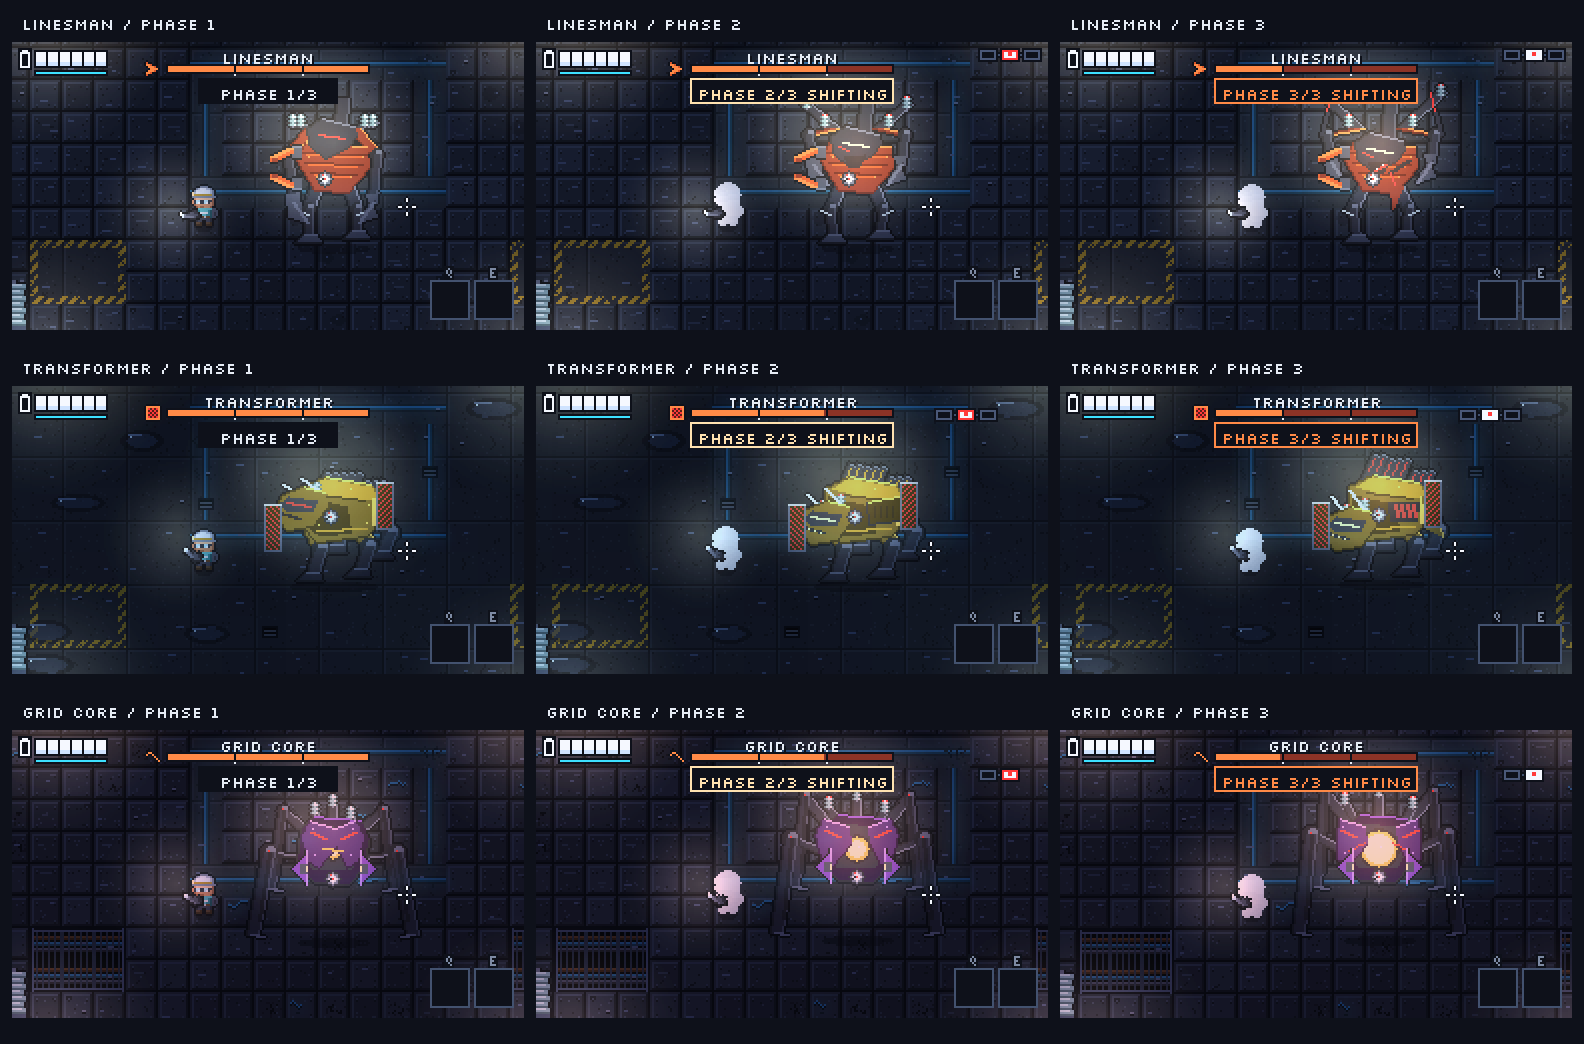
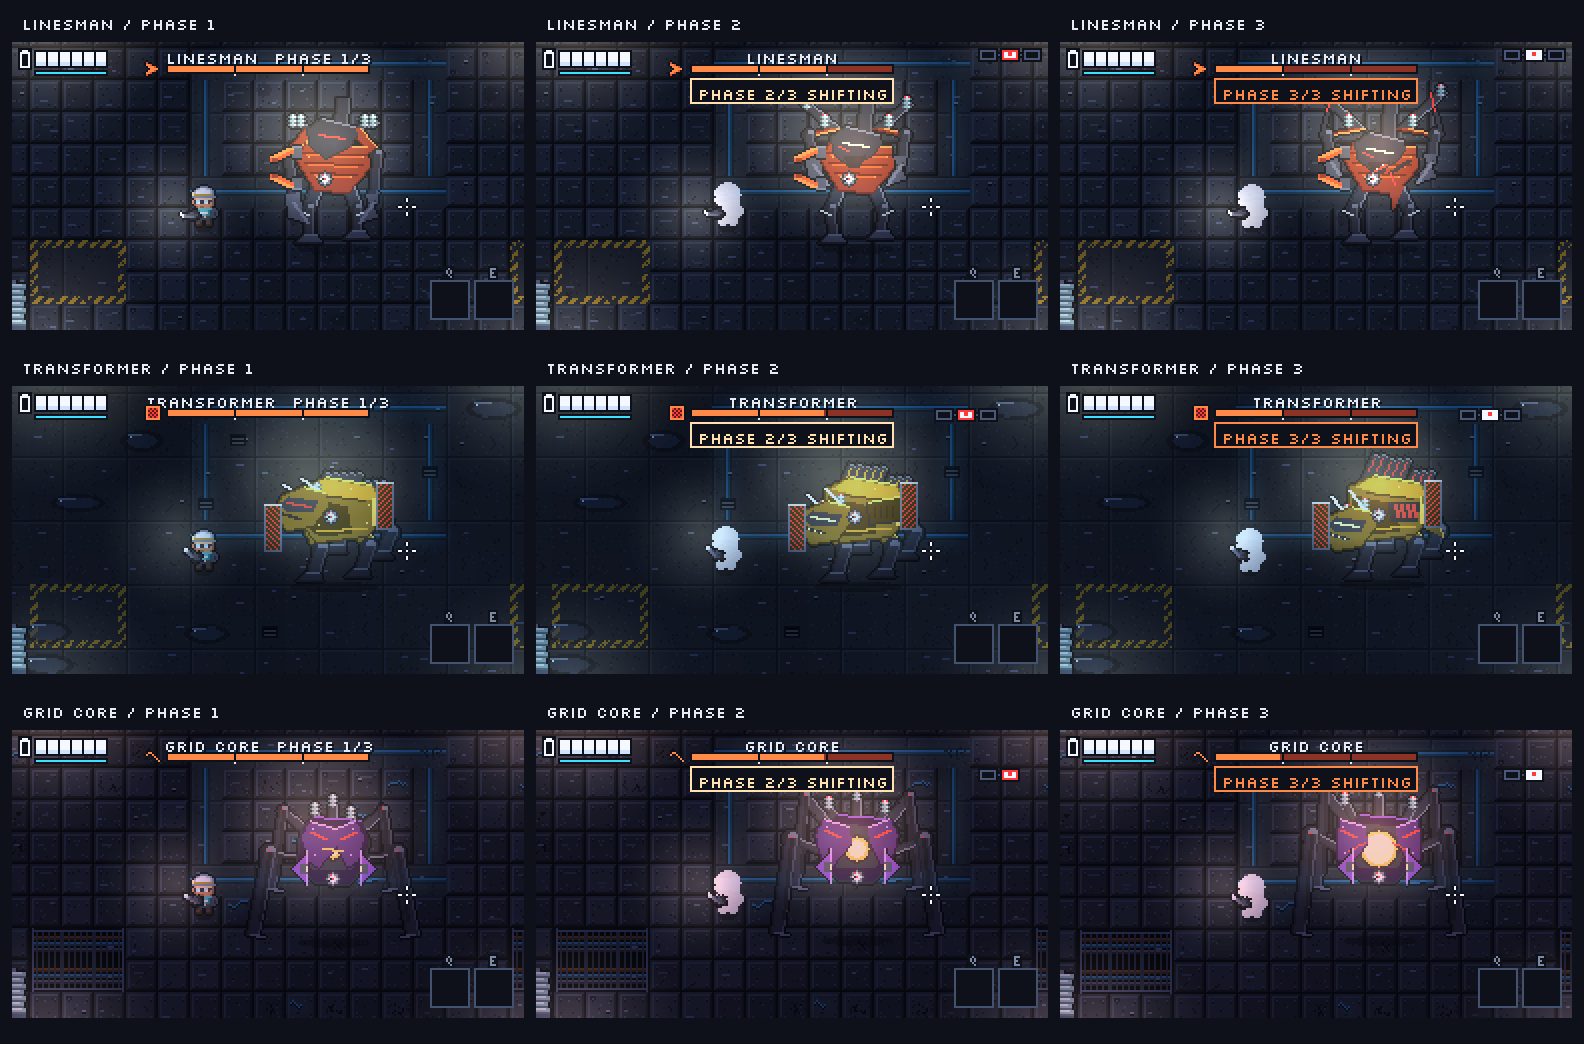
Keep the steady phase label clear of moving boss armor

Changed region(s): [[0.1237, 0.0307, 0.2165, 0.1226], [0.0928, 0.3678, 0.2475, 0.4291], [0.1237, 0.705, 0.2165, 0.7663]]

diff --git a/src/overload/art/pixel/hud.py b/src/overload/art/pixel/hud.py
@@ -159,7 +159,10 @@ def draw(target: pygame.Surface, hud: Hud) -> None:
     if hud.rival_health is not None:
         bar_w = 100
         bx = (w - bar_w) // 2
-        text(target, hud.rival_name, (w // 2, 2), "ui.text", "midtop")
+        title = hud.rival_name
+        if hud.rival_phases > 1 and not hud.rival_changing:
+            title += f"  PHASE {hud.rival_phase}/{hud.rival_phases}"
+        text(target, title, (w // 2, 2), "ui.text", "midtop")
         target.fill(rgb("px.outline"), (bx - 1, 11, bar_w + 2, 5))
         target.fill(rgb("px.hostile.1"), (bx, 12, bar_w, 3))
         fill = "fx.flash" if hud.rival_venting and (hud.tick // 4) % 2 else "px.hostile.3"
@@ -168,17 +171,13 @@ def draw(target: pygame.Surface, hud: Hud) -> None:
             nx = bx + round(bar_w * k / hud.rival_phases)
             target.fill(rgb("px.outline"), (nx, 11, 1, 5))
             target.fill(rgb("ui.text"), (nx, 16, 1, 1))
-        if hud.rival_phases > 1:
-            phase_color = ("ui.text", "px.lamp.light", "px.hostile.3")[hud.rival_phase - 1]
-            # The active phase stays visible after the shielded transition finishes.
-            panel = pygame.Rect(0, 18, 102 if hud.rival_changing else 70, 13)
+        if hud.rival_changing and hud.rival_phases > 1:
+            phase_color = "px.hostile.3" if hud.rival_phase == 3 else "px.lamp.light"
+            panel = pygame.Rect(0, 18, 102, 13)
             panel.centerx = w // 2
             target.fill(rgb("px.outline"), panel)
-            if hud.rival_changing:
-                pygame.draw.rect(target, rgb(phase_color), panel, 1)
-            label = f"PHASE {hud.rival_phase}/{hud.rival_phases}"
-            if hud.rival_changing:
-                label += " SHIFTING"
+            pygame.draw.rect(target, rgb(phase_color), panel, 1)
+            label = f"PHASE {hud.rival_phase}/{hud.rival_phases} SHIFTING"
             text(target, label, (w // 2, 20), phase_color, "midtop")
         if hud.rival_protocol:
             icon = effects.protocol_icon(hud.rival_protocol)

diff --git a/tests/test_pixel_art.py b/tests/test_pixel_art.py
@@ -920,7 +920,7 @@ def test_real_health_thresholds_reach_the_permanent_phase_hud(headless_pygame, m
 
     monkeypatch.setattr(hud, "text", track)
     view.draw(display, run, (128, 72))
-    assert "PHASE 1/3" in calls
+    assert any(label.endswith("PHASE 1/3") for label in calls)
 
     for phase in (2, 3):
         target_health = rival.max_health * (4 - phase) // 3
@@ -950,7 +950,7 @@ def test_real_health_thresholds_reach_the_permanent_phase_hud(headless_pygame, m
             view.after_tick(run)
         calls.clear()
         view.draw(display, run, (128, 72))
-        assert f"PHASE {phase}/3" in calls
+        assert any(label.endswith(f"PHASE {phase}/3") for label in calls)
 
 
 def test_the_entrance_card_and_ending_rows(headless_pygame, monkeypatch) -> None:

diff --git a/docs/HANDOFF.md b/docs/HANDOFF.md
@@ -17,9 +17,11 @@ Snapshot of November 18, 2026. For any agent or chat picking up the work. The st
 
 ## Boss rework integration
 
-GitHub merged #36 to `main`. It closed #37 through #42 by merging each into its feature base, so `main` still ran the older boss presentation. The follow-up branch `fix/boss-walk-and-phases` incorporates the exact merged tree from #42 and targets `main` directly.
+GitHub merged #36 to `main`. It closed #37 through #42 by merging each into its feature base, so `main` still ran the older boss presentation. The direct [integration PR #43](https://github.com/Adit-Prabhu/overload/pull/43) incorporates the exact merged tree from #42 and targets `main` directly.
 
 This build shows the current phase throughout each fight and highlights the shielded transition. The feet reach in the actual direction of travel, with longer planted steps and visibly higher lifts. Verify these in the campaign or the headless captures rather than the single-arena practice mode, which has no three-phase chassis. See [boss design and captures](BOSS_DESIGN.md).
+
+After review and CI, Adit can merge with `gh pr merge 43 --merge`, then update a local main checkout with `git pull --ff-only`.
 
 ## Next steps (spec section 9)
 1. Bulwark (from the Sentry) and Magnet (from the Sweeper) base powers: drops, charge cores, evolutions (REFLECT, CRUSH), effects, sounds, and the slotting banner. Then a bot protocol check that shields do not trivialize projectile protocols.
